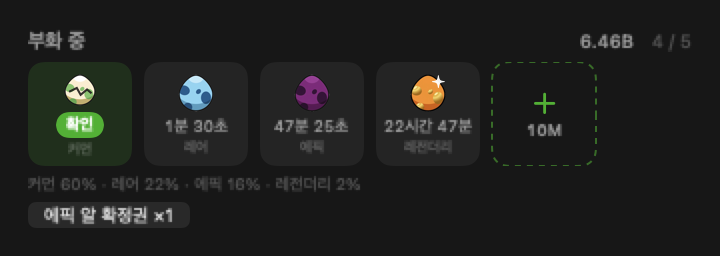
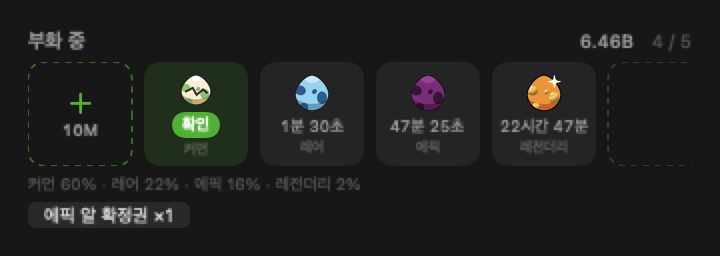
fix: pin the draw tile and stop the reveal leaking the result
Moving the egg draw into the hatching row introduced two regressions.

The reveal's backdrop is a radial gradient that only covers ~16% at the
centre. Over the shop that leaked nothing; over the hatching row it leaked
the freshly landed egg's grade colour and label, so the result was readable
before the animation finished. Paint an opaque base under the gradient.

The draw tile was the first empty slot, so it shifted one tile right after
every draw and rapid-fire drawing was gone. Pin it to the head of the row
and keep it visible-but-disabled when the row is full, so the same spot
stays clickable and there is still somewhere to say why a draw is blocked.

The row order moves out of the view body into EggSlotsView.tiles so the
position can be asserted, and the cover is tested by rendering the reveal
over two different backgrounds and requiring identical pixels.

diff --git a/Tests/PokeDexBarTests/DrawRevealCoverTests.swift b/Tests/PokeDexBarTests/DrawRevealCoverTests.swift
@@ -1,0 +1,63 @@
+import XCTest
+import SwiftUI
+@testable import PokeDexBar
+
+/// 뽑기 연출이 **뒤를 가리는지**. 연출이 부화칸 줄 위에서 나기 시작하면서, 반투명 배경 틈으로
+/// 방금 놓인 알의 등급색이 비쳐 **연출이 끝나기 전에 결과를 알 수 있었다**(사용자 지적).
+/// 상점에 있을 땐 뒤가 상점 목록이라 흘릴 것이 없어 아무도 못 봤다.
+@MainActor
+final class DrawRevealCoverTests: XCTestCase {
+    private static let size = CGSize(width: PopoverMetrics.width, height: 220)
+
+    /// 연출 한 장을 그린다 — `behind` 는 뒤에 깔 색이다.
+    private func pixels(behind: Color) throws -> Data {
+        let view = ZStack {
+            behind
+            EggRevealView(grade: .legendary, shiny: true, l: L(.ko),
+                          language: .ko, onDone: {})
+        }
+        .frame(width: Self.size.width, height: Self.size.height)
+
+        let host = NSHostingView(rootView: view)
+        host.appearance = NSAppearance(named: .darkAqua)
+        host.frame = CGRect(origin: .zero, size: Self.size)
+        host.layoutSubtreeIfNeeded()
+        let rep = try XCTUnwrap(host.bitmapImageRepForCachingDisplay(in: host.bounds))
+        host.setNeedsDisplay(host.bounds)
+        host.displayIfNeeded()
+        host.cacheDisplay(in: host.bounds, to: rep)
+        let bytes = try XCTUnwrap(rep.bitmapData)
+        return Data(bytes: bytes, count: rep.bytesPerRow * rep.pixelsHigh)
+    }
+
+    /// **뒤에 무엇을 깔든 결과가 같아야 한다** — 한 픽셀이라도 뒷색을 따라가면 그만큼 비친다.
+    /// 색을 하나 정해 "그 색이 없다"로 물으면 연출 자체의 색과 구별이 안 되므로, 두 장을 비교한다.
+    func testTheRevealHidesWhateverIsBehindIt() throws {
+        let overMagenta = try pixels(behind: Color(red: 1, green: 0, blue: 1))
+        let overBlack = try pixels(behind: .black)
+        XCTAssertFalse(overMagenta.isEmpty, "아무것도 안 그려졌다 — 비교가 무의미하다")
+        XCTAssertEqual(overMagenta, overBlack, "연출 뒤가 비친다 — 알 목록이 읽힌다")
+    }
+
+    /// 대조군: 같은 방법으로 **가리지 않는** 표면은 뒷색을 따라가야 한다. 없으면 "렌더가 늘
+    /// 같은 그림을 준다"(예: 캐시가 굳거나 아무것도 안 그려짐)여도 위가 통과한다.
+    func testTheComparisonCanActuallySeeThrough() throws {
+        func translucent(_ behind: Color) throws -> Data {
+            let view = ZStack { behind; Color.black.opacity(0.93) }
+                .frame(width: Self.size.width, height: Self.size.height)
+            let host = NSHostingView(rootView: view)
+            host.appearance = NSAppearance(named: .darkAqua)
+            host.frame = CGRect(origin: .zero, size: Self.size)
+            host.layoutSubtreeIfNeeded()
+            let rep = try XCTUnwrap(host.bitmapImageRepForCachingDisplay(in: host.bounds))
+            host.setNeedsDisplay(host.bounds)
+            host.displayIfNeeded()
+            host.cacheDisplay(in: host.bounds, to: rep)
+            let bytes = try XCTUnwrap(rep.bitmapData)
+            return Data(bytes: bytes, count: rep.bytesPerRow * rep.pixelsHigh)
+        }
+        XCTAssertNotEqual(try translucent(Color(red: 1, green: 0, blue: 1)),
+                          try translucent(.black),
+                          "7% 반투명도 못 가려내면 이 비교는 아무것도 못 잡는다")
+    }
+}

diff --git a/Sources/PokeDexBar/UI/EggSlotsView.swift b/Sources/PokeDexBar/UI/EggSlotsView.swift
@@ -71,13 +71,13 @@ struct EggSlotsView: View {
             }
             ScrollView(.horizontal, showsIndicators: false) {
                 HStack(spacing: Self.tileSpacing) {
-                    ForEach(store.state.eggs) { egg in
-                        slot(egg)
-                    }
-                    // **첫 빈 칸만 뽑기 버튼**이다. 빈 칸마다 값을 적으면 "10M" 이 네 번 서서
-                    // 한 번의 동작이 네 개처럼 보인다 — 나머지는 여유 자리로 남긴다.
-                    ForEach(0..<max(0, store.state.slots - store.state.eggs.count), id: \.self) { index in
-                        if index == 0, provider != nil { drawSlot } else { emptySlot }
+                    ForEach(Self.tiles(eggs: store.state.eggs, slots: store.state.slots,
+                                       canDrawHere: provider != nil)) { tile in
+                        switch tile {
+                        case .draw: drawSlot
+                        case .egg(let egg): slot(egg)
+                        case .empty: emptySlot
+                        }
                     }
                 }
             }
@@ -189,6 +189,34 @@ struct EggSlotsView: View {
 
     /// **빈 칸이 곧 뽑기 버튼이다.** 옆에 버튼을 따로 두면 빈 칸이 장식이 되고 누를 곳이
     /// 둘로 갈린다(키우미집 빈 자리에서 쓴 것과 같은 판단).
+    /// 한 줄에 놓이는 칸들. **뽑기 칸이 맨 앞에 못 박혀 있다** — 처음엔 "첫 빈 칸"이 뽑기
+    /// 칸이었는데, 알이 하나 찰 때마다 칸이 오른쪽으로 밀려 **연타가 깨졌다**(사용자 지적:
+    /// 예전엔 버튼을 따다닥 눌러 네 개를 연달아 뽑았는데 이제는 뽑을 때마다 마우스를 옮겨야
+    /// 한다). 자리가 고정돼야 같은 곳을 계속 누를 수 있다.
+    ///
+    /// 자리가 꽉 차도 **빠지지 않고 회색으로 남는다** — 빠지면 왜 못 뽑는지 말해 줄 자리까지
+    /// 같이 사라지고, 다음에 부화하는 순간 줄이 통째로 밀린다.
+    ///
+    /// 순서를 뷰 본문에 두면 "알이 늘어도 뽑기 자리가 그대로인가"를 물어볼 수가 없어서 밖으로 뺐다.
+    enum RowTile: Identifiable {
+        case draw
+        case egg(Egg)
+        case empty(Int)
+
+        var id: String {
+            switch self {
+            case .draw: "draw"
+            case .egg(let egg): "egg-\(egg.id)"
+            case .empty(let index): "empty-\(index)"
+            }
+        }
+    }
+
+    static func tiles(eggs: [Egg], slots: Int, canDrawHere: Bool) -> [RowTile] {
+        (canDrawHere ? [.draw] : []) + eggs.map { RowTile.egg($0) }
+            + (0..<max(0, slots - eggs.count)).map { RowTile.empty($0) }
+    }
+
     private var drawSlot: some View {
         let canDraw = store.canDraw && !drawing && provider != nil
         return Button { draw() } label: {

diff --git a/Tests/PokeDexBarTests/ShopViewTests.swift b/Tests/PokeDexBarTests/ShopViewTests.swift
@@ -100,6 +100,43 @@ final class DrawLocationTests: XCTestCase {
         XCTAssertFalse(try code("EggSlotsView.swift").contains("buySlot("))
     }
 
+    /// **뽑기 칸은 알이 늘어도 제자리다.** 처음엔 "첫 빈 칸"이 뽑기 칸이라 알이 하나 찰 때마다
+    /// 칸이 오른쪽으로 밀렸고, 그래서 연타가 깨졌다(사용자 지적). 자리가 0번으로 고정돼야
+    /// 같은 곳을 계속 누를 수 있다.
+    func testTheDrawTileStaysPutAsEggsFillIn() {
+        let url = FileManager.default.temporaryDirectory
+            .appendingPathComponent("row-\(UUID().uuidString).json")
+        let now = Date(timeIntervalSince1970: 1_700_000_000)
+        let store = PlayerStore(fileURL: url, rng: SeededRNG(seed: 3), now: { now })
+        for filled in 0...4 {
+            store.seedForTesting(wallet: EggBalance.drawPrice, slots: 4, eggs: filled, at: now)
+            let tiles = EggSlotsView.tiles(eggs: store.state.eggs, slots: 4, canDrawHere: true)
+            XCTAssertEqual(tiles.first?.id, "draw", "알 \(filled)개일 때 뽑기 칸이 맨 앞이 아니다")
+            XCTAssertEqual(tiles.count, 5, "알 \(filled)개일 때 줄 길이가 달라졌다")
+        }
+    }
+
+    /// 자리가 꽉 차도 **빠지지 않는다** — 빠지면 왜 못 뽑는지 말해 줄 자리까지 사라지고,
+    /// 하나 부화하는 순간 줄이 통째로 밀린다.
+    func testTheDrawTileSurvivesAFullRow() {
+        let url = FileManager.default.temporaryDirectory
+            .appendingPathComponent("row-\(UUID().uuidString).json")
+        let now = Date(timeIntervalSince1970: 1_700_000_000)
+        let store = PlayerStore(fileURL: url, rng: SeededRNG(seed: 3), now: { now })
+        store.seedForTesting(wallet: EggBalance.drawPrice, slots: 3, eggs: 3, at: now)
+        let tiles = EggSlotsView.tiles(eggs: store.state.eggs, slots: 3, canDrawHere: true)
+        XCTAssertEqual(tiles.first?.id, "draw")
+        XCTAssertFalse(store.canDraw, "이 상황에서 뽑을 수 있으면 회색 칸을 검증하는 의미가 없다")
+    }
+
+    /// 대조군: 후보 인덱스가 없으면 뽑기 칸 자체가 없다. 없으면 "언제나 맨 앞에 하나 넣는다"도
+    /// 위를 통과한다.
+    func testWithoutAProviderThereIsNoDrawTile() {
+        let tiles = EggSlotsView.tiles(eggs: [], slots: 2, canDrawHere: false)
+        XCTAssertEqual(tiles.count, 2)
+        XCTAssertNil(tiles.first { $0.id == "draw" })
+    }
+
     /// 뽑을 수 있는지는 **스토어 하나**가 정한다 — 화면이 조건을 따로 적으면 갈린다.
     func testTheTileFollowsTheStoreGate() {
         let url = FileManager.default.temporaryDirectory

diff --git a/Sources/PokeDexBar/UI/EggRevealView.swift b/Sources/PokeDexBar/UI/EggRevealView.swift
@@ -87,6 +87,11 @@ struct EggRevealView: View {
 
     var body: some View {
         ZStack {
+            // **뒤가 비치면 안 된다.** 아래 그라데이션은 가운데가 16% 밖에 안 가리는데, 이 연출이
+            // 부화칸 줄 위에 뜨면서 그 틈으로 **방금 놓인 알의 등급색과 라벨이 그대로 보였다**
+            // (사용자 지적) — 연출이 끝나기 전에 결과를 알게 된다. 상점에 있을 땐 뒤가 상점
+            // 목록이라 흘릴 것이 없었다. 불투명한 바닥을 깔아 무대의 느낌은 그대로 두고 새는 것만 막는다.
+            Color.black.ignoresSafeArea()
             // 가운데로 시선을 모으는 어둠 — 평평한 검정보다 무대처럼 읽힌다.
             RadialGradient(colors: [stage.color.opacity(0.16), .black.opacity(0.93)],
                            center: .center, startRadius: 0, endRadius: 190)
